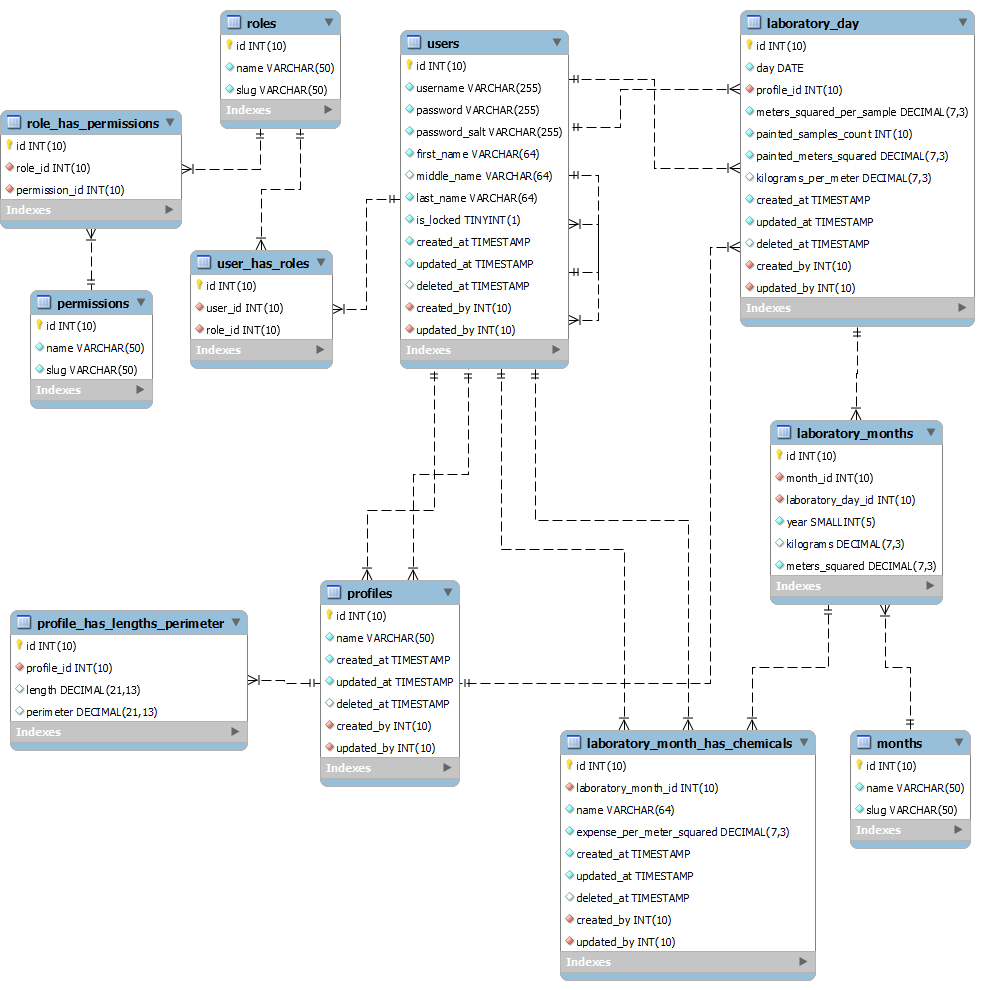
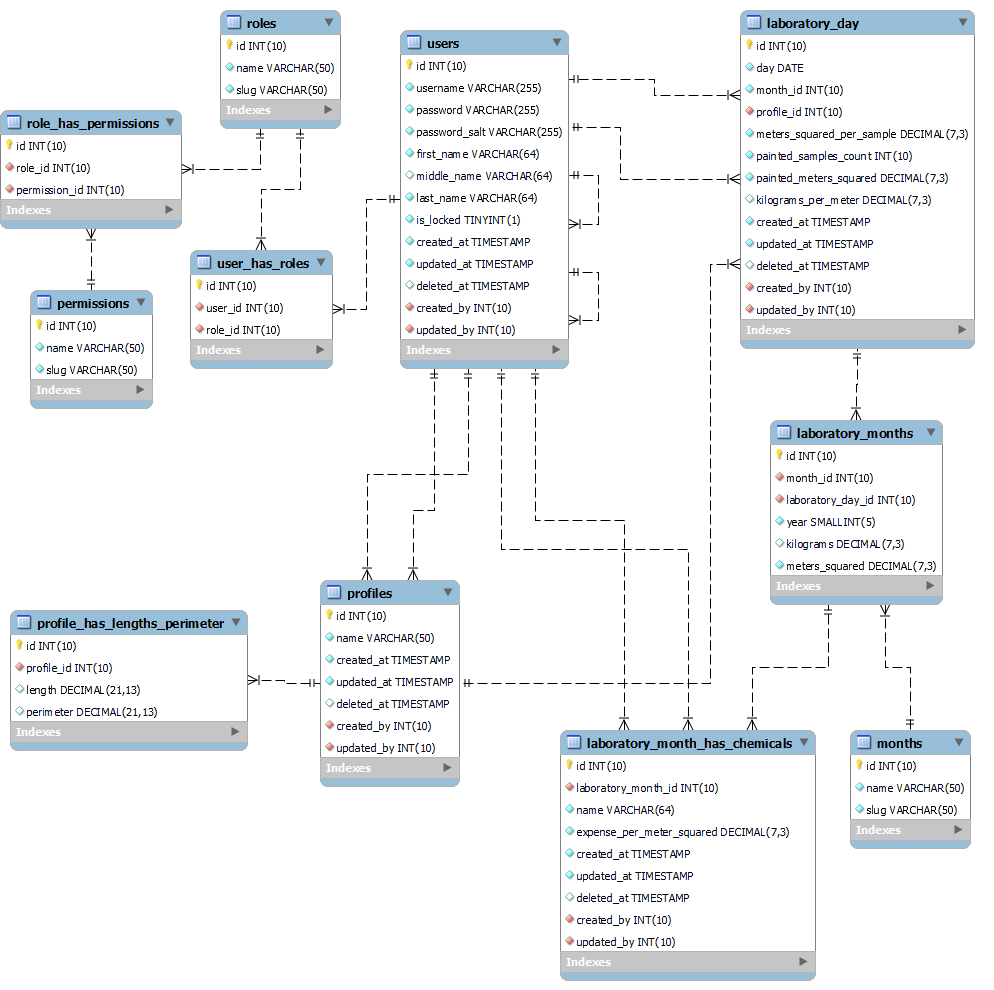
Add month id to laboratory day for easier quering

Changed region(s): [[0.7173, 0.0909, 0.998, 0.3636]]

diff --git a/DiplomaWork/Models/laboratory_2023Context.cs b/DiplomaWork/Models/laboratory_2023Context.cs
@@ -46,14 +46,15 @@ namespace DiplomaWork.Models
             {
                 entity.ToTable("laboratory_day");
 
+                entity.HasIndex(e => e.MonthId, "fk_months_laboratory_day_idx");
+
+                entity.HasIndex(e => e.ProfileId, "fk_profile_laboratory_day");
+
                 entity.HasIndex(e => e.CreatedBy, "fk_users_laboratory_day_profile1_idx");
 
                 entity.HasIndex(e => e.UpdatedBy, "fk_users_laboratory_day_profile2_idx");
 
                 entity.HasIndex(e => e.Id, "id_UNIQUE")
-                    .IsUnique();
-
-                entity.HasIndex(e => e.ProfileId, "profile_id_UNIQUE")
                     .IsUnique();
 
                 entity.Property(e => e.Id)
@@ -83,6 +84,10 @@ namespace DiplomaWork.Models
                     .HasColumnType("decimal(7,3) unsigned")
                     .HasColumnName("meters_squared_per_sample");
 
+                entity.Property(e => e.MonthId)
+                    .HasColumnType("int(10) unsigned")
+                    .HasColumnName("month_id");
+
                 entity.Property(e => e.PaintedMetersSquared)
                     .HasColumnType("decimal(7,3) unsigned")
                     .HasColumnName("painted_meters_squared");
@@ -110,9 +115,15 @@ namespace DiplomaWork.Models
                     .OnDelete(DeleteBehavior.ClientSetNull)
                     .HasConstraintName("fk_users_laboratory_day1");
 
+                entity.HasOne(d => d.Month)
+                    .WithMany(p => p.LaboratoryDays)
+                    .HasForeignKey(d => d.MonthId)
+                    .OnDelete(DeleteBehavior.ClientSetNull)
+                    .HasConstraintName("fk_months_laboratory_day");
+
                 entity.HasOne(d => d.Profile)
-                    .WithOne(p => p.LaboratoryDay)
-                    .HasForeignKey<LaboratoryDay>(d => d.ProfileId)
+                    .WithMany(p => p.LaboratoryDays)
+                    .HasForeignKey(d => d.ProfileId)
                     .OnDelete(DeleteBehavior.ClientSetNull)
                     .HasConstraintName("fk_profile_laboratory_day");
 
@@ -358,11 +369,11 @@ namespace DiplomaWork.Models
                     .HasColumnName("id");
 
                 entity.Property(e => e.Length)
-                    .HasColumnType("decimal(7,3) unsigned")
+                    .HasColumnType("decimal(21,13) unsigned")
                     .HasColumnName("length");
 
                 entity.Property(e => e.Perimeter)
-                    .HasColumnType("decimal(7,3) unsigned")
+                    .HasColumnType("decimal(21,13) unsigned")
                     .HasColumnName("perimeter");
 
                 entity.Property(e => e.ProfileId)

diff --git a/DiplomaWork/Models/LaboratoryDay.cs b/DiplomaWork/Models/LaboratoryDay.cs
@@ -7,6 +7,7 @@ namespace DiplomaWork.Models
     {
         public uint Id { get; set; }
         public DateOnly Day { get; set; }
+        public uint MonthId { get; set; }
         public uint ProfileId { get; set; }
         public decimal MetersSquaredPerSample { get; set; }
         public uint PaintedSamplesCount { get; set; }
@@ -19,6 +20,7 @@ namespace DiplomaWork.Models
         public uint UpdatedBy { get; set; }
 
         public virtual User CreatedByNavigation { get; set; } = null!;
+        public virtual Month Month { get; set; } = null!;
         public virtual Profile Profile { get; set; } = null!;
         public virtual User UpdatedByNavigation { get; set; } = null!;
         public virtual LaboratoryMonth LaboratoryMonth { get; set; } = null!;

diff --git a/DiplomaWork/Models/Profile.cs b/DiplomaWork/Models/Profile.cs
@@ -7,6 +7,7 @@ namespace DiplomaWork.Models
     {
         public Profile()
         {
+            LaboratoryDays = new HashSet<LaboratoryDay>();
             ProfileHasLengthsPerimeters = new HashSet<ProfileHasLengthsPerimeter>();
         }
 
@@ -20,7 +21,7 @@ namespace DiplomaWork.Models
 
         public virtual User CreatedByNavigation { get; set; } = null!;
         public virtual User UpdatedByNavigation { get; set; } = null!;
-        public virtual LaboratoryDay LaboratoryDay { get; set; } = null!;
+        public virtual ICollection<LaboratoryDay> LaboratoryDays { get; set; }
         public virtual ICollection<ProfileHasLengthsPerimeter> ProfileHasLengthsPerimeters { get; set; }
     }
 }

diff --git a/DiplomaWork/Views/LaboratoryDayView.xaml.cs b/DiplomaWork/Views/LaboratoryDayView.xaml.cs
@@ -159,6 +159,7 @@ namespace DiplomaWork.Views
                         LaboratoryDay newLaboratoryDay = new LaboratoryDay
                         {
                             Day = DateOnly.FromDateTime((DateTime)LaboratoryDayDatePicker.SelectedDate),
+                            MonthId = (uint) LaboratoryDayDatePicker.SelectedDate.Value.Month,
                             ProfileId = (uint) item.ProfileId,
                             MetersSquaredPerSample = decimal.Parse(item.MetersSquaredPerSample),
                             PaintedSamplesCount = uint.Parse(item.PaintedSamplesCount),

diff --git a/DiplomaWork/Models/Month.cs b/DiplomaWork/Models/Month.cs
@@ -5,10 +5,16 @@ namespace DiplomaWork.Models
 {
     public partial class Month
     {
+        public Month()
+        {
+            LaboratoryDays = new HashSet<LaboratoryDay>();
+        }
+
         public uint Id { get; set; }
         public string Name { get; set; } = null!;
         public string Slug { get; set; } = null!;
 
         public virtual LaboratoryMonth LaboratoryMonth { get; set; } = null!;
+        public virtual ICollection<LaboratoryDay> LaboratoryDays { get; set; }
     }
 }
